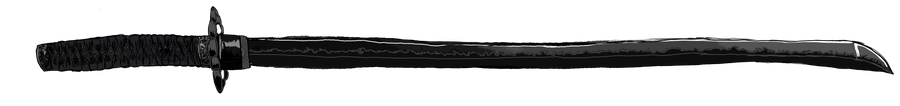
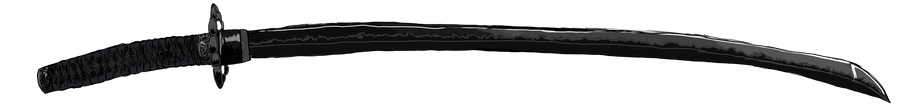
八咫の絵を原画どおりに作り直す（縦横同じ比率で縮め、強い反りをそのまま残す）
抜き身・鞘に収めた姿とも、送ってもらった原画を同じ位置で切り出し、鍔を他の刀と同じ位置にそろえた。HDも同じ。キャッシュを避けるため ?v=3

Claude-Session: https://claude.ai/code/session_01DBbkqA6r51ZdGarE1tbwyw

Changed region(s): [[0.0311, 0.0283, 0.9956, 0.9623], [0.1556, 0.5377, 0.1867, 0.566]]

diff --git a/js/game.js b/js/game.js
@@ -243,7 +243,7 @@ const KATANA=[
   {id:'yogarasu',box:'b2',mei:'夜鴉',yomi:'よがらす',tier:'極',wrap:[30,20,40],metal:'black',blade:[90,60,140,0.42],lore:'夜に鳴く鴉は凶事の兆し。斬られた者だけがその声を聞く。',slash:{col:'#efe6ff',glow:'rgba(140,90,230,1)',double:true,thick:1.3}},
   {id:'kaiki',box:'b2',mei:'皆既',yomi:'かいき',tier:'幻',wrap:[16,16,20],metal:'silver',blade:'iris',lore:'日が欠けきる一瞬。昼の空に星が出る。',slash:{rainbow:true,glow:'rgba(230,230,255,1)',double:true,thick:1.5}},
   {id:'iwato',box:'b2',mei:'岩戸',yomi:'いわと',tier:'幻',wrap:[150,120,80],metal:'gold',blade:[255,240,200,0.5],lore:'日が隠れた岩の戸。開けば世に光が戻る。',slash:{col:'#fffbe8',glow:'rgba(255,230,150,1)',double:true,thick:1.6}},
-  {id:'yata',box:'b2',mei:'八咫',yomi:'やた',tier:'絶',src:'assets/katana_yata.png',up:true,lore:'日を覆う黒に、三本足の烏が道を示す。抜けば空が欠け、羽が降る。',slash:{col:'#000000',glow:'rgba(255,255,255,1)',double:true,thick:1.7,feathers:true}}
+  {id:'yata',box:'b2',mei:'八咫',yomi:'やた',tier:'絶',src:'assets/katana_yata.png?v=3',up:true,lore:'日を覆う黒に、三本足の烏が道を示す。抜けば空が欠け、羽が降る。',slash:{col:'#000000',glow:'rgba(255,255,255,1)',double:true,thick:1.7,feathers:true}}
 ];
 const KMAP={}; KATANA.forEach(k=>KMAP[k.id]=k);
 // 描いた絵がある刀（src）は、その絵を読み込んでから作り直す
@@ -1620,7 +1620,7 @@ const ZART={
     bg:['#5a0d18','#250609','#070203'],hot:[255,40,70],deep:[200,24,48],pale:[255,220,228],void:[5,1,2],band:'#0a0203',seal:['#a8101f','#f4d6d6'],mark:'#ff5a6a',
     tint:['rgba(40,2,8,.6)','rgba(255,70,95,.45)'],parts:'petal',sun:'moon',
     tag:['#6e0c18','#f2d2d2'],big:[200,24,44],tintc:'#a3182c',cls:'z-ouka'},
-  yata:{mei:'八咫',yomi:'やた',up:true,saya:'assets/katana_yata_saya.png',hd:'assets/katana_yata_hd.png',sayaHd:'assets/katana_yata_saya_hd.png',src:'assets/katana_yata.png',
+  yata:{mei:'八咫',yomi:'やた',up:true,saya:'assets/katana_yata_saya.png?v=3',hd:'assets/katana_yata_hd.png?v=3',sayaHd:'assets/katana_yata_saya_hd.png?v=3',src:'assets/katana_yata.png?v=3',
     bg:['#3a3a40','#121215','#020203'],hot:[255,255,255],deep:[210,210,220],pale:[255,255,255],void:[2,2,3],band:'#060608',seal:['#0a0a0c','#f4f4f6'],mark:'#ffffff',
     tint:['rgba(255,255,255,.18)','rgba(255,255,255,.55)'],parts:'feather',sun:'eclipse',
     tag:['#050506','#f6f6f8','#e8e8ee'],big:[250,250,255],tintc:'#ffffff',cls:'z-yata'}};
